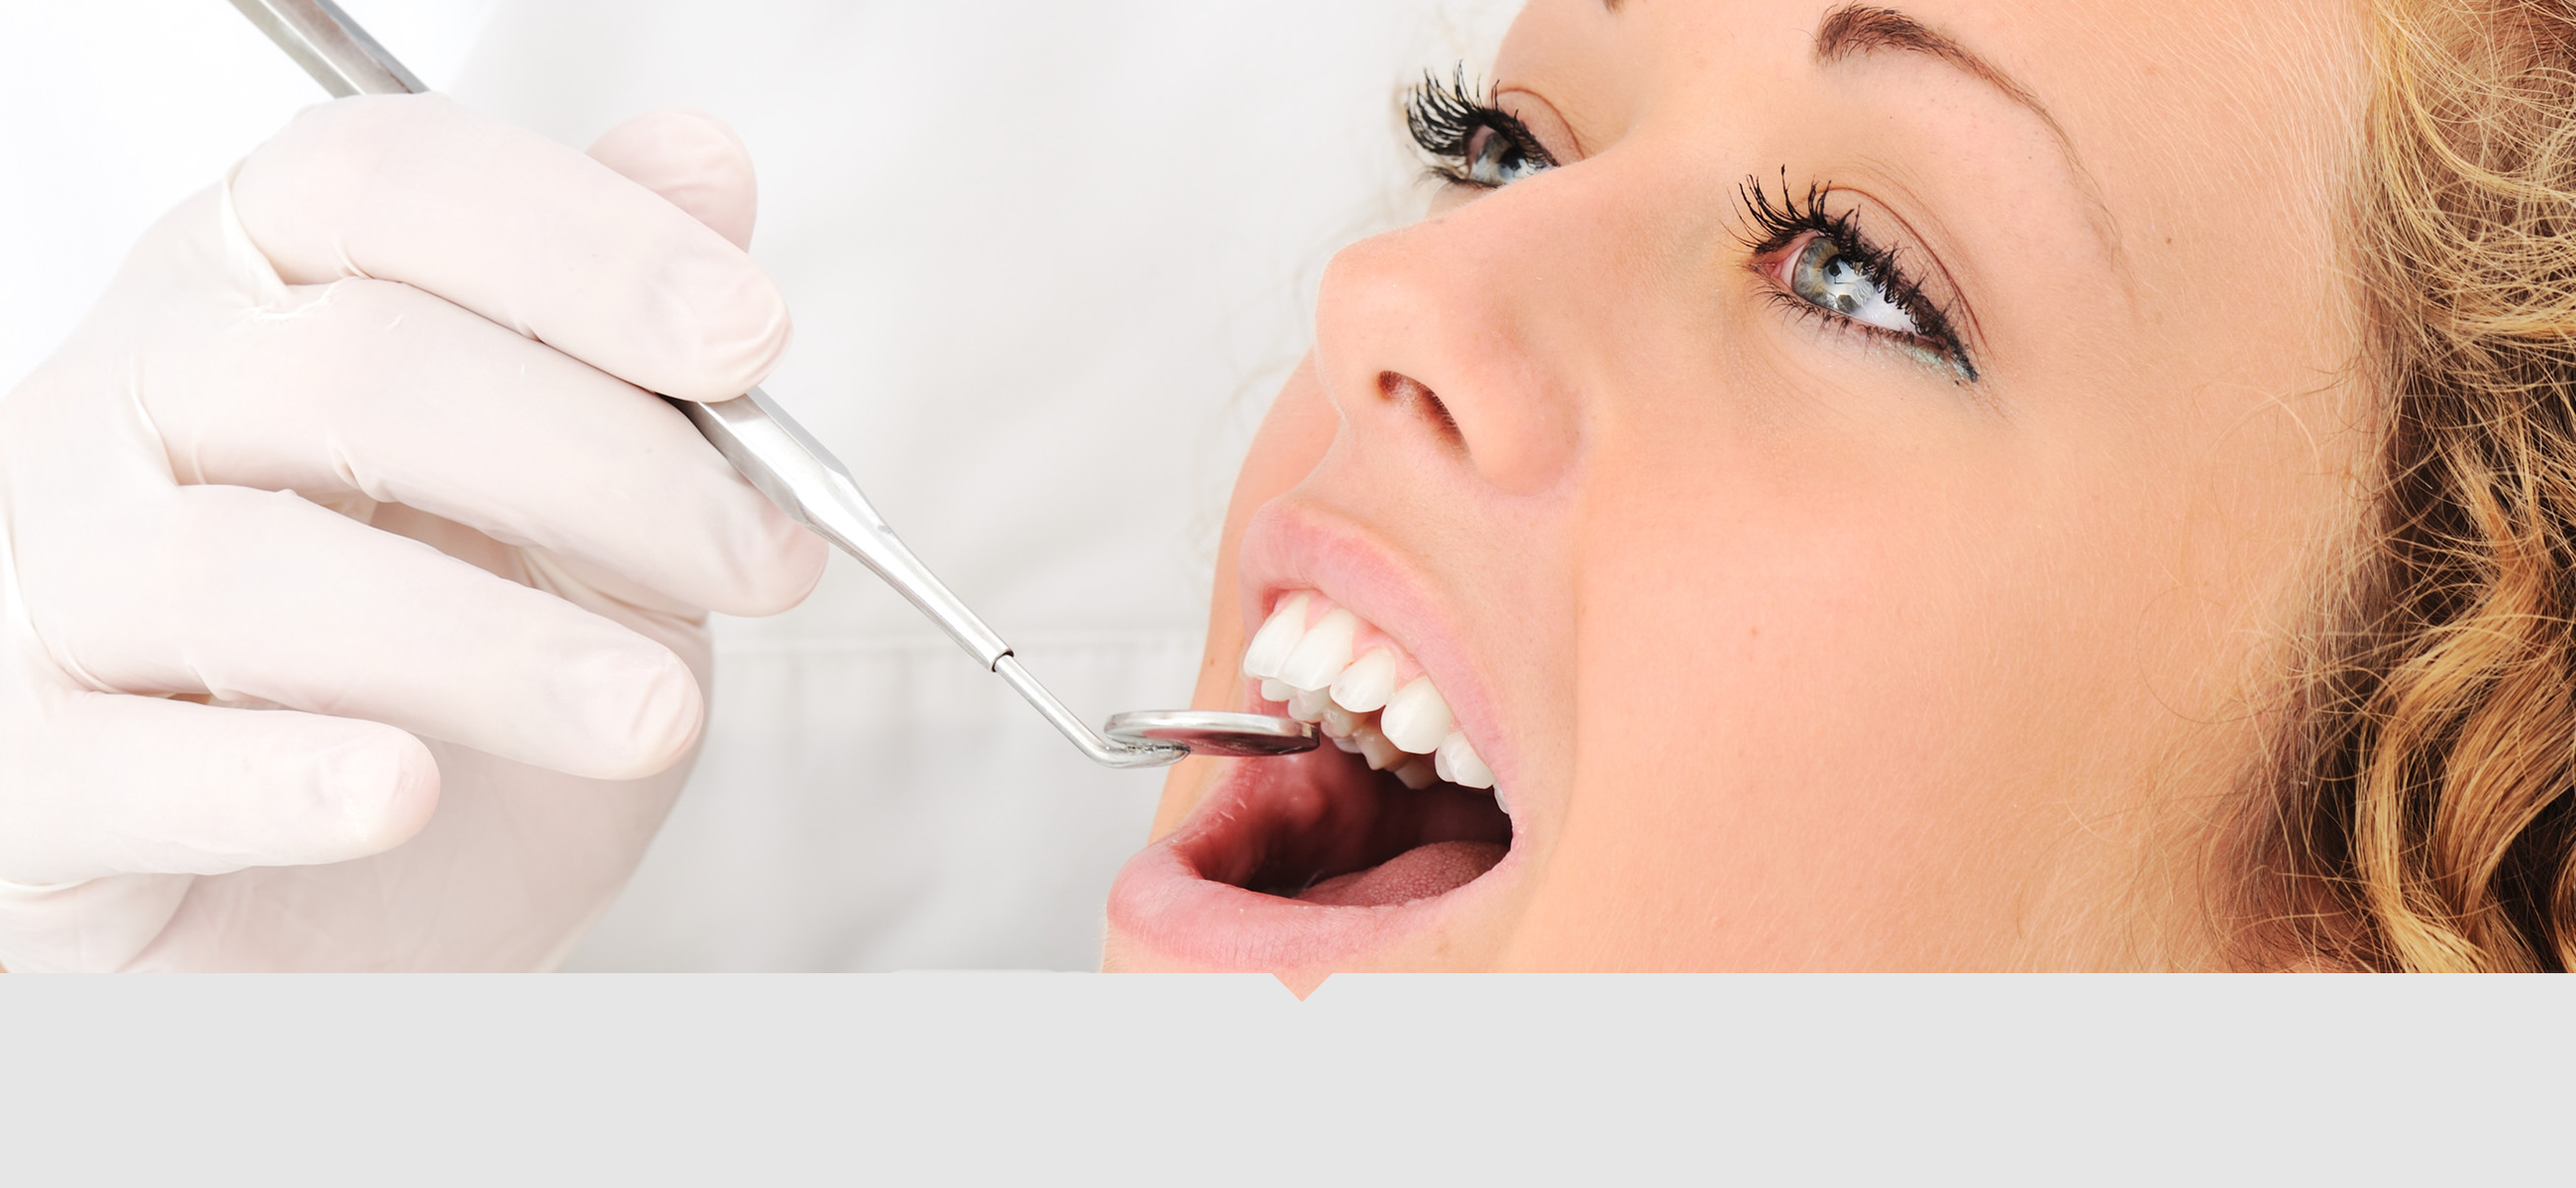
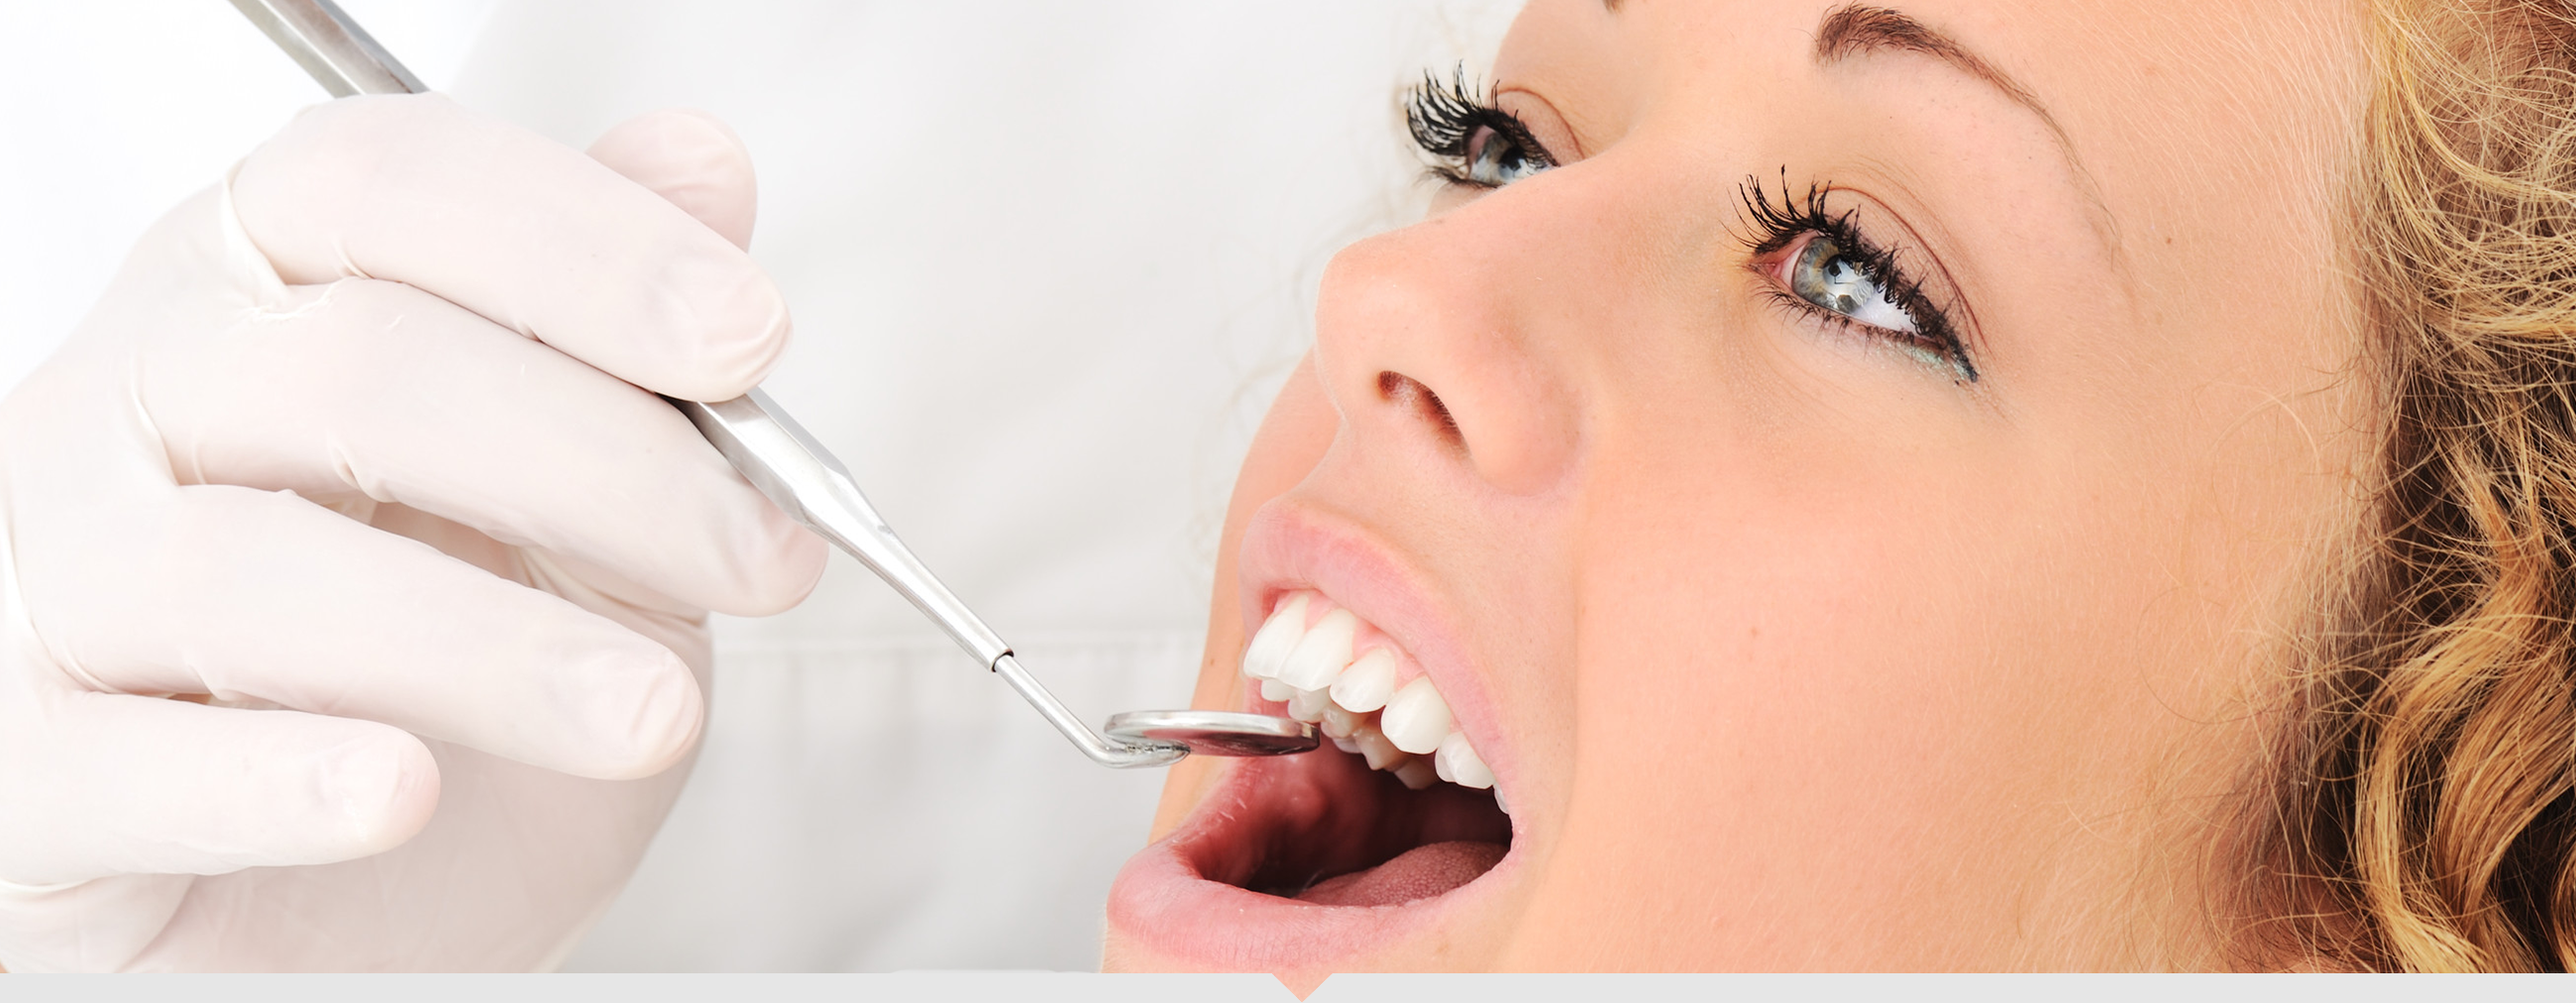
fix header layout

diff --git a/style.css b/style.css
@@ -84,11 +84,6 @@ a.brand {
 	text-decoration: none;
 }
 
-/*menu {
-	padding: 0;
-	margin: 0;
-}*/
-
 nav .menuline {
 	background: linear-gradient(to right, #585eb5, #4a37ef);
 	box-shadow: 0 4px 12px 0 rgba(0, 0, 0, .35);
@@ -97,7 +92,6 @@ nav .menuline {
 	padding: 10px 50px;
 	line-height: 23px;
 	font-size: 20px;
-	height: 80px;
 }
 
 .navbar {
@@ -125,10 +119,8 @@ nav .menuline {
 }
 
 
-.photo {
-	background: url(img/photo.png) no-repeat;
-	background-size: contain;
-	height: 920px;
+.photo img {
+    width: 100%;
 }
 
 .notes {
@@ -150,8 +142,6 @@ nav .menuline {
 
 .greybackground {
   	background-color: #e6e6e6;
-  	/*height: 380px;*/
-  	margin-top: -170px;
   	padding: 90px 0 60px 0;
 }
 
@@ -218,35 +208,35 @@ img.photomarina {
     max-width: 75%;
     height: auto;
     display: block;
-    margin: auto;    
+    margin: auto;
 }
 
 img.doctor2 {
     max-width: 75%;
     height: auto;
     display: block;
-    margin: auto;    
+    margin: auto;
 }
 
 img.doctor3 {
     max-width: 75%;
     height: auto;
     display: block;
-    margin: auto;    
+    margin: auto;
 }
 
 img.nurse {
     max-width: 75%;
     height: auto;
     display: block;
-    margin: auto;   
+    margin: auto;
 }
 
 img.admin {
     max-width: 75%;
     height: auto;
     display: block;
-    margin: auto;    
+    margin: auto;
 }
 
 .contactinfo {
@@ -320,7 +310,7 @@ a.brandbottom {
 	padding-left: 60px;
 	min-height: 90px;
 	/*margin-bottom: 35px;*/
-	text-decoration: none;		
+	text-decoration: none;
 }
 a.brandbottom div {
 	font-size: 15px;

diff --git a/index.html b/index.html
@@ -54,7 +54,6 @@
                         <div class="logo">Стоматология</div> <br>
                         <div>доктора Шевченко</div>
                         </a>
-
                     </div>
                 </div>
             </div>
@@ -67,17 +66,13 @@
                     <li><a href="#">Услуги</a></li>
                     <li><a href="#">Цены</a></li>
                     <li><a href="#">Врачи</a></li>
-
                     <li><a href="#">Контакты</a></li>
-
                   </ul>
                 </div>
             </div>
         </nav>
 
-        <div class="photo">
-
-        </div>
+        <div class="photo hidden-xs hidden-sm"><img src="img/photo.png" alt=""></div>
 
         <div class="greybackground">
             <div class="container">
